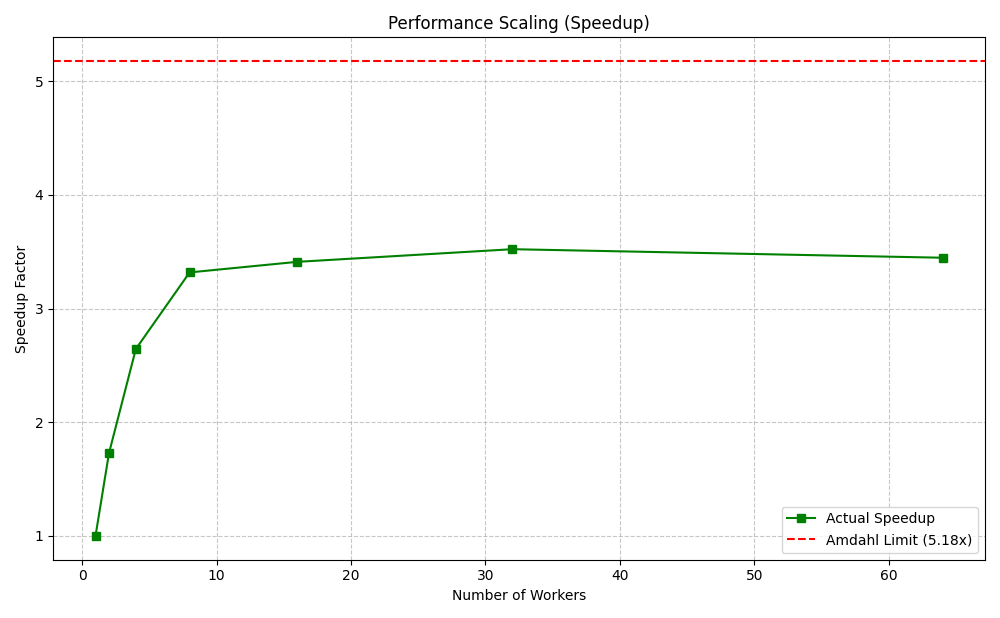
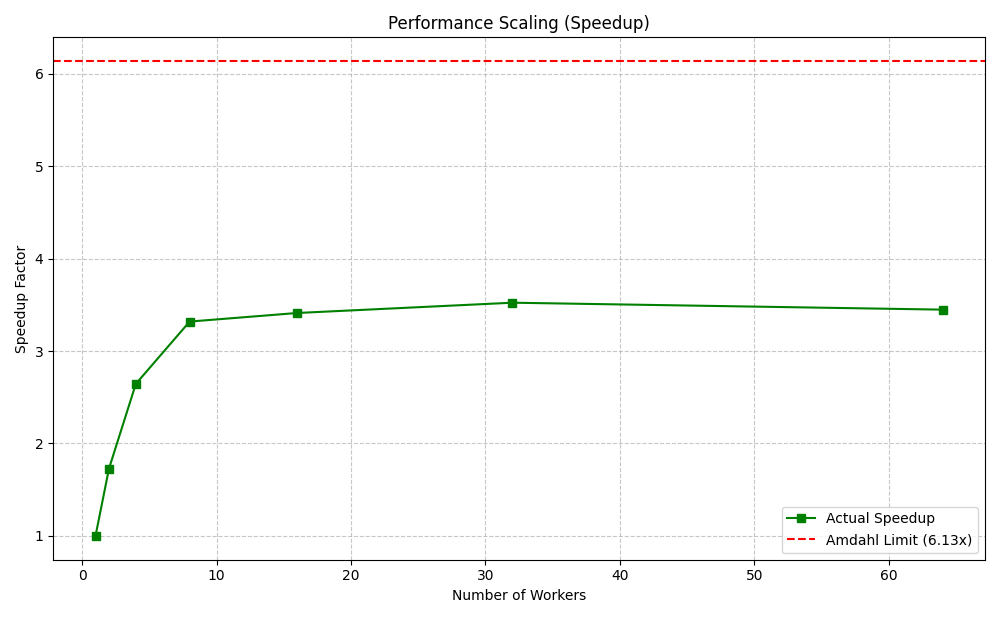
yo

diff --git a/create_plots.py b/create_plots.py
@@ -5,6 +5,8 @@ import pandas as pd
 df_d = pd.read_csv("results_parallel_huge.csv")
 df_e = pd.read_csv("results_e.csv")
 
+max_theo_speedup = 6.135
+
 # PLOT E
 df_d["sequential_time"] = df_d["total_time"] - df_d["parallel_time"]
 df_d["parallel_portion"] = df_d["parallel_time"] - df_d["total_time"]
@@ -15,7 +17,6 @@ df_d["speedup"] = t_1 / df_d["total_time"]
 s_time = df_d.loc[df_d["workers"] == 1, "sequential_time"].values[0]
 s_portion = s_time / t_1
 
-max_theo_speedup = 1 / s_portion
 
 plt.figure(figsize=(10, 6.18))
 plt.plot(df_d['workers'], df_d['speedup'], marker='s', color='green', label='Actual Speedup')
@@ -38,10 +39,6 @@ df_e["sequential_portion"] = df_e["sequential_time"] - df_e["total_time"]
 
 t_1 = df_e.loc[df_e["workers"] == 1, "total_time"].values[0]
 df_e["speedup"] = t_1 / df_e["total_time"]
-s_time = df_e.loc[df_e["workers"] == 1, "sequential_time"].values[0]
-s_portion = s_time / t_1
-
-max_theo_speedup = 1 / s_portion
 
 plt.figure(figsize=(10, 6.18))
 plt.plot(df_e['workers'], df_e['speedup'], marker='s', color='green', label='Actual Speedup')
